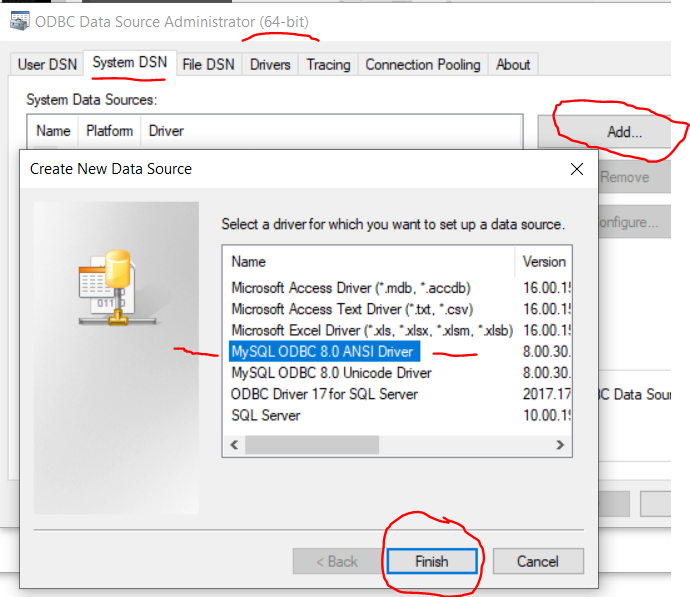
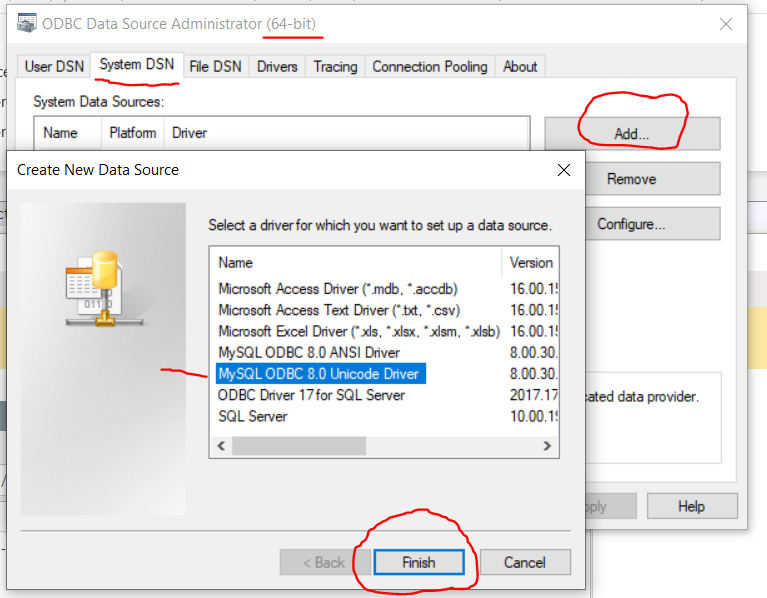
convert to Unicode driver, works more reliably

Changed region(s): [[0.0, 0.0, 1.0, 1.0], [0.4565, 0.7236, 0.5478, 0.7839]]

diff --git a/IOT20/IOT20.html b/IOT20/IOT20.html
@@ -307,7 +307,8 @@
 
             <li>Once installed, click Start, type in &#39;ODBC&#39;, find the 64-bit version and click to start.   </li>
 
-            <li>Under the System DSN tab, Add a new Data Source, using the MySQL ODBC 8 ANSI driver.<br />
+            <li>Under the System DSN tab, Add a new Data Source, using the MySQL ODBC 8 Unicode driver.<br />
+                note: ANSI driver does not work on all systems, but Unicode seems to
                 <p>
                 <a href="images/ODBC_SystemDSN.png" class="img-responsive img-rounded" target="popup" onclick="window.open('images/ODBC_SystemDSN.PNG', 'popup'); return false;">
                     <img src="images/ODBC_SystemDSN.png" width="300" alt="ODBC installer" class="img-responsive img-responsive" /></a> ODBC Installer<br />
